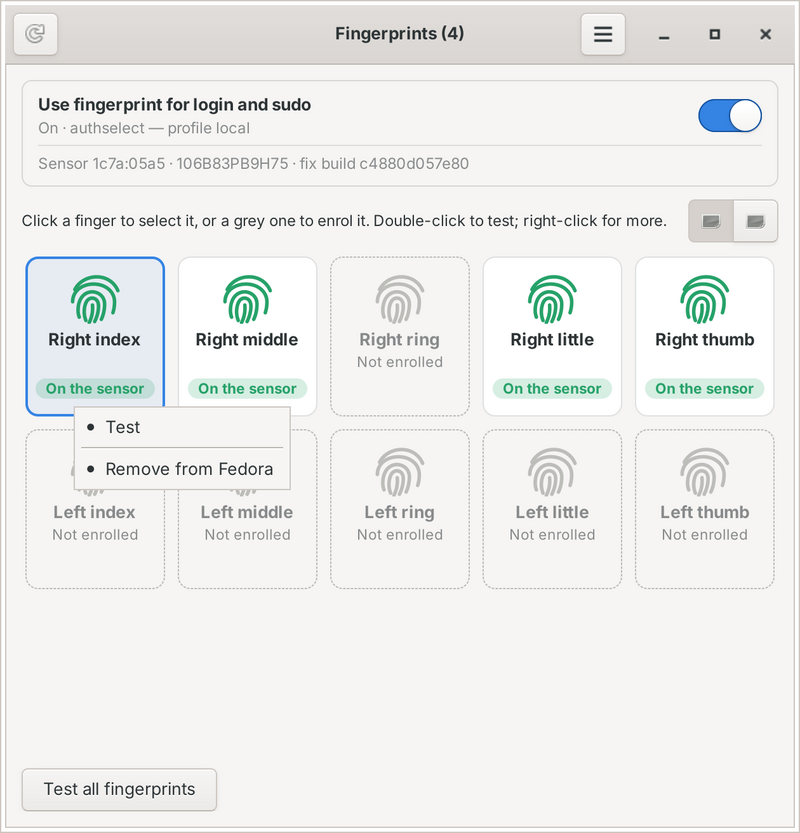
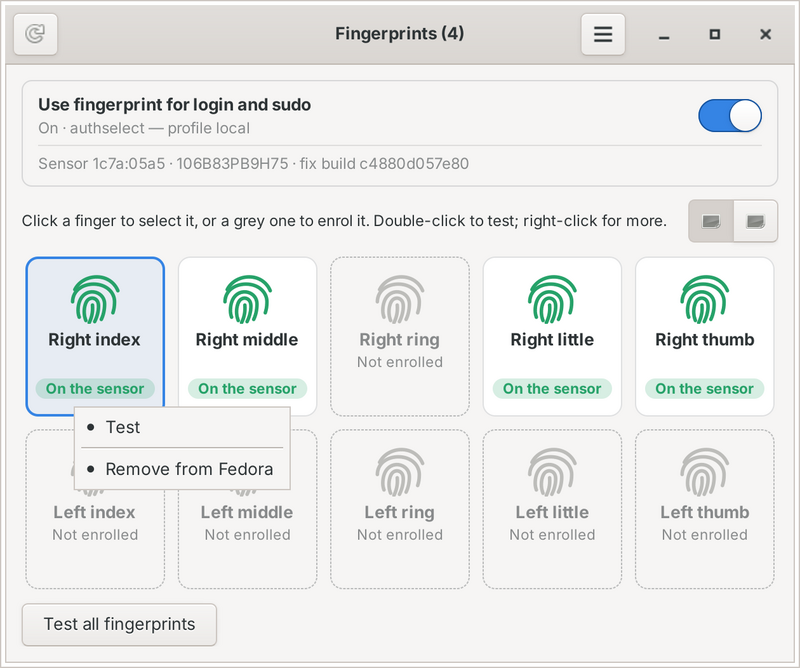
fingerprint-fix-sdcp: Manager window fits its content
No empty space under the cards: the window opens as tall as the current
tab/view needs, refits when the tab, the Cards/List view or the message bar
changes, and keeps the user's own size once they resize it. Pages are no
longer all as tall as the tallest one; long content scrolls (up to 520 px).
README screenshot updated.

Claude-Session: https://claude.ai/code/session_013FdMZQZQ3wWX7YqT1JysNG

Changed region(s): [[0.0, 0.0, 1.0, 0.8084], [0.0, 0.8982, 1.0, 1.0], [0.0625, 0.6886, 0.375, 0.8084]]

diff --git a/lib/fingerprint-manager.py b/lib/fingerprint-manager.py
@@ -315,7 +315,7 @@ def summarise(text):
 class Manager(Gtk.Window):
     def __init__(self, application=None):
         super().__init__(title=TITLE, application=application)
-        self.set_default_size(620, 680)
+        self.set_default_size(620, -1)     # height: as tall as the content needs
         self.set_icon_name(ICON_NAME)
         self.helper = Helper()
         self.status = None
@@ -332,7 +332,8 @@ class Manager(Gtk.Window):
         # ── header bar: refresh · [Fingerprints | Sensor] · menu ──
         hb = Gtk.HeaderBar(show_close_button=True)
         self.set_titlebar(hb)
-        self.stack = Gtk.Stack(transition_type=Gtk.StackTransitionType.CROSSFADE)
+        self.stack = Gtk.Stack(transition_type=Gtk.StackTransitionType.CROSSFADE,
+                               vhomogeneous=False)   # each page only as tall as it needs
         # The tabs; with the Sensor tab hidden (the default) just a title.
         self.switcher = Gtk.StackSwitcher(stack=self.stack)
         self.title_lbl = Gtk.Label(label="Fingerprints")
@@ -452,10 +453,15 @@ class Manager(Gtk.Window):
         self.rows.get_style_context().add_class("fpm-list")
         self.rows.connect("row-activated", self._on_card_clicked)
         self.rows.connect("button-press-event", self._on_fingers_double_click)
-        self.rec_views = Gtk.Stack(transition_type=Gtk.StackTransitionType.CROSSFADE)
+        self.rec_views = Gtk.Stack(transition_type=Gtk.StackTransitionType.CROSSFADE,
+                                   vhomogeneous=False)   # each page only as tall as it needs
         for name, widget in (("icons", self.cards), ("list", self.rows)):
             sw = Gtk.ScrolledWindow(hscrollbar_policy=Gtk.PolicyType.NEVER)
             sw.set_min_content_height(200)
+            # Size the window to the cards (no empty space under them); scroll
+            # only when there is more than fits, e.g. a long list.
+            sw.set_propagate_natural_height(True)
+            sw.set_max_content_height(520)
             sw.add(widget)
             self.rec_views.add_named(sw, name)
         page.pack_start(self.rec_views, True, True, 0)
@@ -498,10 +504,15 @@ class Manager(Gtk.Window):
                                  activate_on_single_click=True)
         self.trows.get_style_context().add_class("fpm-list")
         self.trows.connect("row-activated", self._on_tcard_clicked)
-        self.tpl_views = Gtk.Stack(transition_type=Gtk.StackTransitionType.CROSSFADE)
+        self.tpl_views = Gtk.Stack(transition_type=Gtk.StackTransitionType.CROSSFADE,
+                                   vhomogeneous=False)   # each page only as tall as it needs
         for name, widget in (("icons", self.tcards), ("list", self.trows)):
             sw = Gtk.ScrolledWindow(hscrollbar_policy=Gtk.PolicyType.NEVER)
             sw.set_min_content_height(200)
+            # Size the window to the cards (no empty space under them); scroll
+            # only when there is more than fits, e.g. a long list.
+            sw.set_propagate_natural_height(True)
+            sw.set_max_content_height(520)
             sw.add(widget)
             self.tpl_views.add_named(sw, name)
         page.pack_start(self.tpl_views, True, True, 0)
@@ -522,6 +533,9 @@ class Manager(Gtk.Window):
         self.connect("destroy", self.on_quit)
         self.show_all()
         self._show_sensor_tab(self.sensor_item.get_active(), save=False)
+        for stack in (self.stack, self.rec_views, self.tpl_views):
+            stack.connect("notify::visible-child", self._refit)
+        self.msg_bar.connect("notify::visible", self._refit)   # grow / shrink with messages
         self._set_view(load_view(), save=False)
         self._update_buttons()
         GLib.idle_add(self.refresh)
@@ -599,6 +613,27 @@ class Manager(Gtk.Window):
         icons.connect("toggled", lambda b: self._set_view("icons" if b.get_active() else "list"))
         self.view_switches.append((icons, lst))
         return box, icons, lst
+
+    def _fit_height(self):
+        """Make the window as tall as its content (no empty space under the
+        cards). Done when the cards first load and when the tab or view
+        changes — but not once the user has resized the window themselves."""
+        width, height = self.get_size()
+        if getattr(self, "_fit_h", None) not in (None, height):
+            return False                          # the user chose a size: keep it
+        # The window's own size request includes the title bar's CSD extras,
+        # which resize() doesn't count — so measure the content instead
+        # (get_size()/resize() are the content area plus the window border).
+        content = self.get_child()
+        cw = content.get_allocated_width() or width
+        natural = content.get_preferred_height_for_width(cw)[1] + 2 * self.get_border_width()
+        self._fit_h = natural
+        self.resize(width, natural)
+        return False
+
+    def _refit(self, *_):
+        if getattr(self, "_fitted", False):
+            GLib.idle_add(self._fit_height)
 
     def _show_sensor_tab(self, show, save=True):
         """The Sensor tab is for troubleshooting, so it's hidden unless chosen."""
@@ -1077,7 +1112,11 @@ class Manager(Gtk.Window):
         return False
 
     def show_status(self, st):
+        first = self.status is None and not getattr(self, "_fitted", False)
         self.status = st
+        if first:                  # once the cards are in: fit the window to them
+            self._fitted = True
+            GLib.idle_add(self._fit_height)
         self._fill_records(st["records"], st["user"])
         self._fill_templates(st["templates"])
         for name, n in (("fingers", len(st["records"])), ("sensor", len(st["templates"]))):
